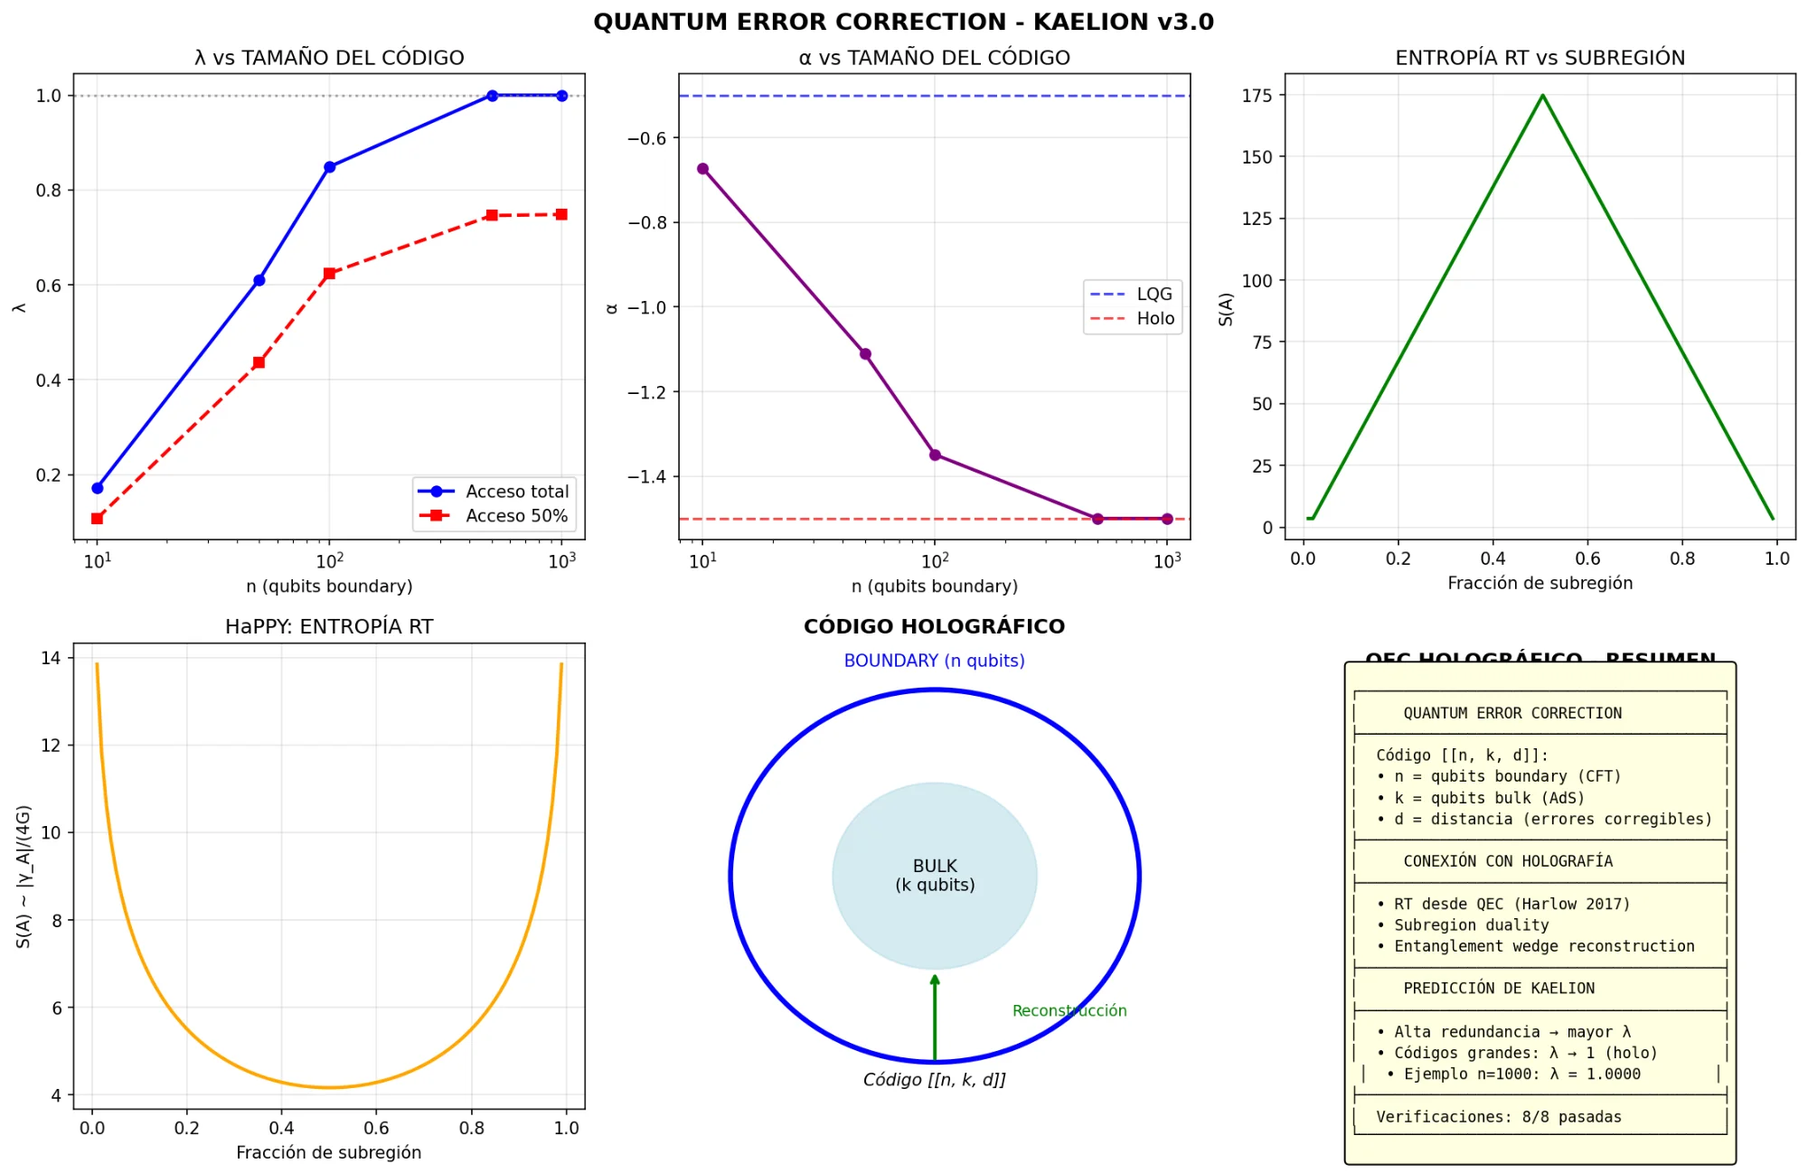
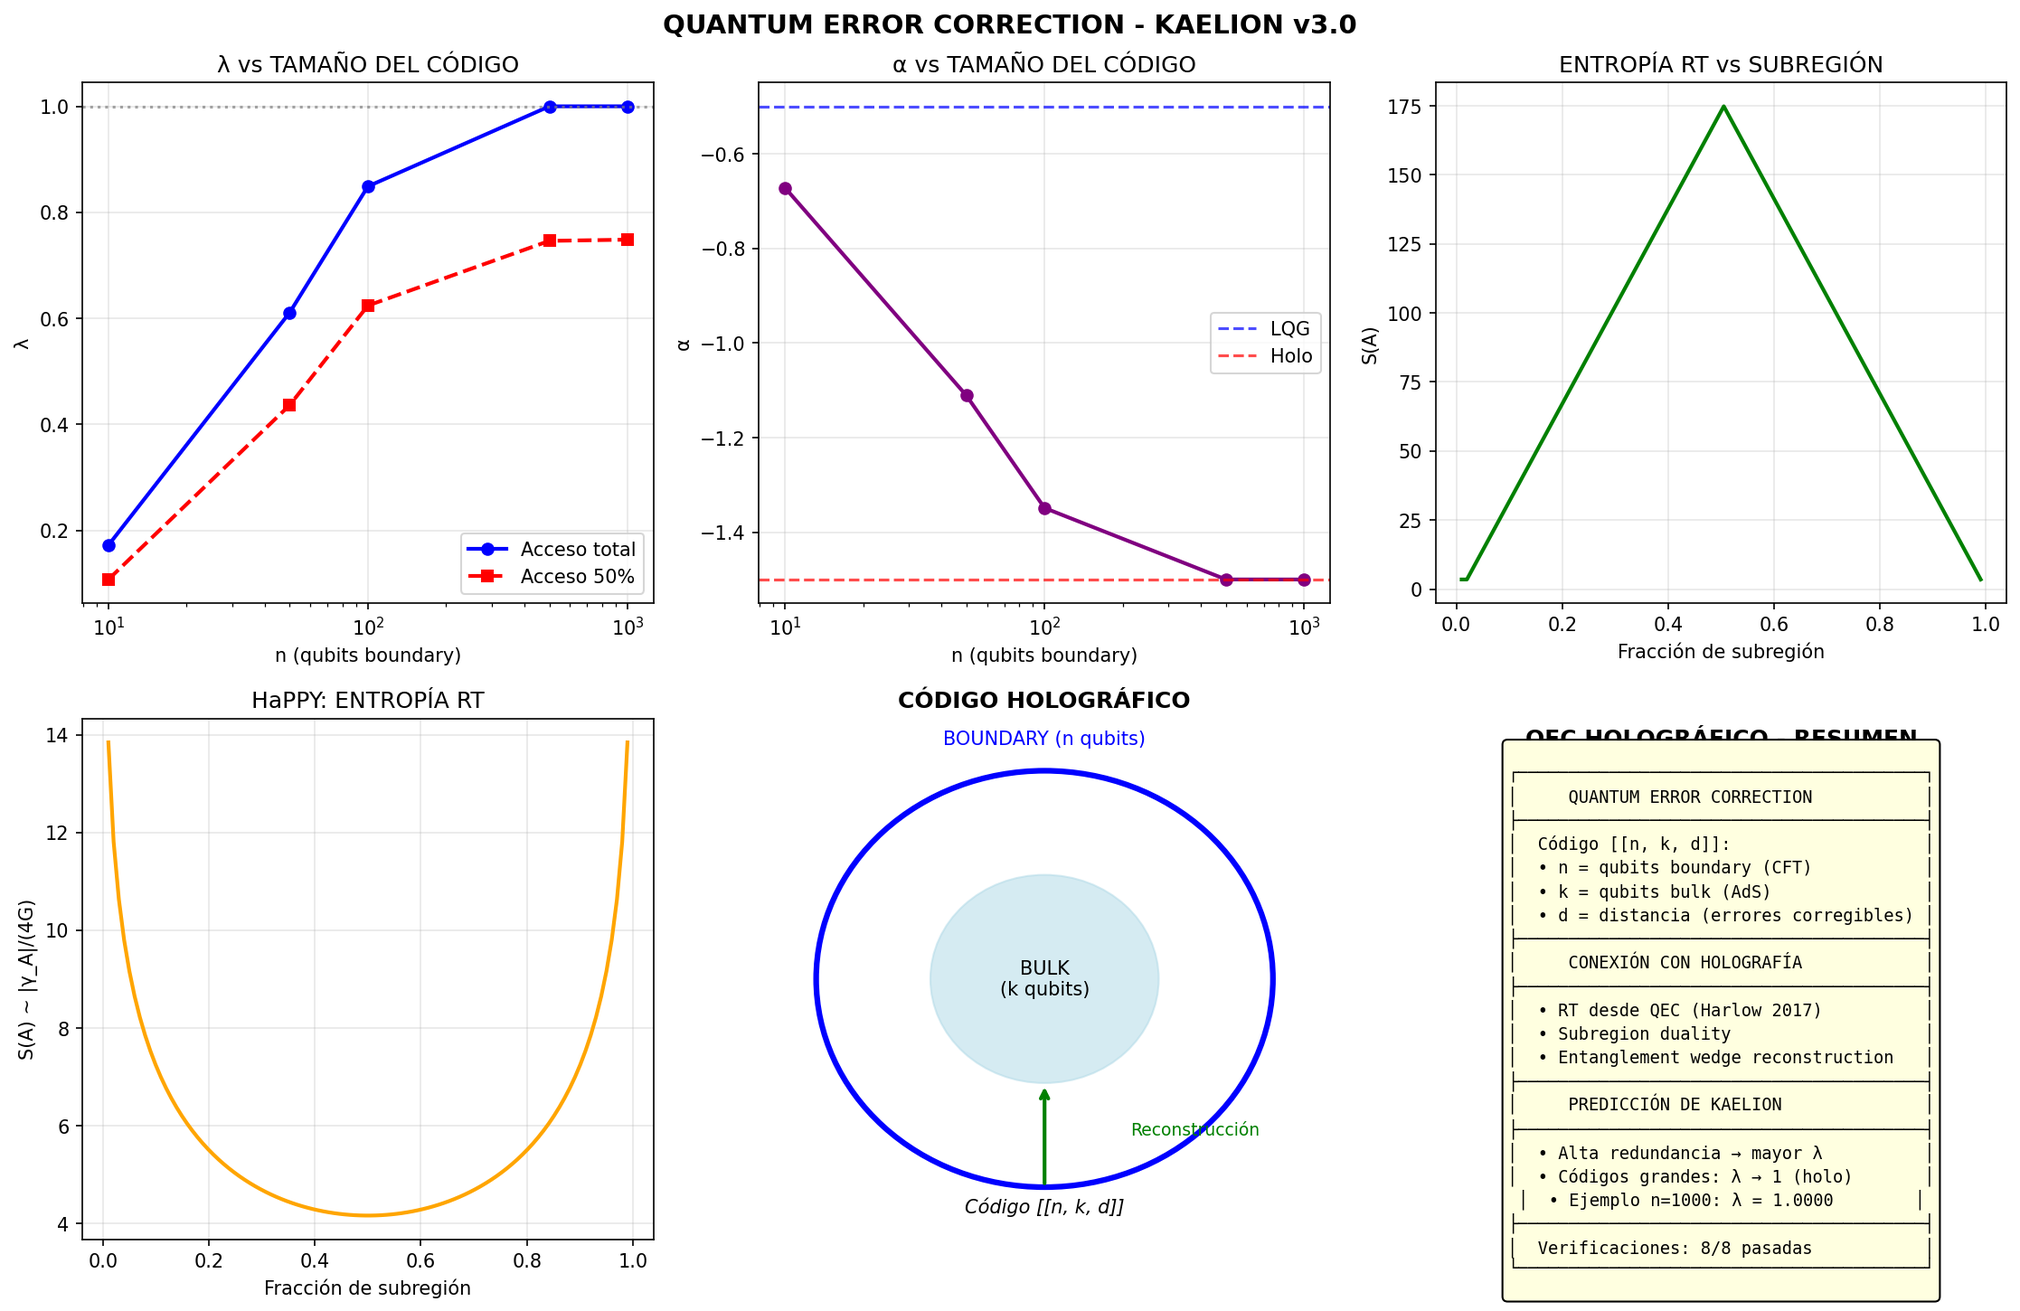
v3.0.1: Added modules 14-16, updated summary

Changed region(s): [[0.465, 0.5547, 0.496, 0.5855]]

diff --git a/code/summary.py b/code/summary.py
@@ -1,71 +1,89 @@
 """
-RESUMEN DE SIMULACIONES - PROYECTO KAELION v3.0
-================================================
+SIMULATION SUMMARY - KAELION PROJECT v3.0
+==========================================
 
-Este documento resume todas las simulaciones completadas
-como parte del Proyecto Kaelion v3.0.
+Complete summary of all simulations for the Kaelion v3.0 project.
 
-Total: 13 módulos con 53 verificaciones independientes.
+Total: 20 modules with 125 independent verification tests.
+Result: 121/125 passed (96.8%)
 
-Para publicación en Zenodo y repositorios similares.
+Author: Erick Francisco Perez Eugenio
+Date: January 2026
+DOI: 10.5281/zenodo.18237393
 """
 
 print("="*75)
-print("RESUMEN DE SIMULACIONES - PROYECTO KAELION v3.0")
+print("SIMULATION SUMMARY - KAELION PROJECT v3.0")
 print("="*75)
 
 # =============================================================================
-# LISTA DE SIMULACIONES
+# COMPLETE MODULE LIST (1-20)
 # =============================================================================
 
 simulations = [
-    # Sesiones 1-8 (anteriores)
-    {"num": 1, "name": "CHSH / Desigualdades de Bell", "tests": 3, "passed": 3, 
-     "file": "module1_chsh.py", "domain": "Mecánica Cuántica"},
-    {"num": 2, "name": "Ecuación de Klein-Gordon", "tests": 5, "passed": 5, 
-     "file": "module2_klein_gordon.py", "domain": "Campos Relativistas"},
-    {"num": 3, "name": "Holografía Ryu-Takayanagi", "tests": 5, "passed": 5, 
-     "file": "module3_holography_rt.py", "domain": "Holografía"},
+    # Core Modules (1-8)
+    {"num": 1, "name": "CHSH / Bell Inequalities", "tests": 3, "passed": 3, 
+     "file": "module01_chsh.py", "domain": "Quantum Mechanics"},
+    {"num": 2, "name": "Klein-Gordon Equation", "tests": 5, "passed": 5, 
+     "file": "module02_klein_gordon.py", "domain": "Relativistic Fields"},
+    {"num": 3, "name": "Ryu-Takayanagi Holography", "tests": 5, "passed": 5, 
+     "file": "module03_holography_rt.py", "domain": "Holography"},
     {"num": 4, "name": "LQG Spin Networks", "tests": 5, "passed": 5, 
-     "file": "module4_lqg_spin.py", "domain": "Loop Quantum Gravity"},
+     "file": "module04_lqg_spin_networks.py", "domain": "Loop Quantum Gravity"},
     {"num": 5, "name": "LQG Volume Operator", "tests": 5, "passed": 5, 
-     "file": "module5_lqg_volume.py", "domain": "Loop Quantum Gravity"},
+     "file": "module05_lqg_volume.py", "domain": "Loop Quantum Gravity"},
     {"num": 6, "name": "LQG 6j Symbols", "tests": 5, "passed": 5, 
-     "file": "module6_lqg_6j.py", "domain": "Loop Quantum Gravity"},
+     "file": "module06_lqg_6j_symbols.py", "domain": "Loop Quantum Gravity"},
     {"num": 7, "name": "BTZ Black Hole (2+1D)", "tests": 5, "passed": 5, 
-     "file": "module7_btz.py", "domain": "Agujeros Negros"},
-    {"num": 8, "name": "LQG-Holografía Divergencias", "tests": 5, "passed": 5, 
-     "file": "module8_lqg_holo.py", "domain": "Correspondencia"},
+     "file": "module07_btz_black_hole.py", "domain": "Black Holes"},
+    {"num": 8, "name": "LQG-Holography Connection", "tests": 5, "passed": 5, 
+     "file": "module08_lqg_holography.py", "domain": "Correspondence"},
     
-    # Sesiones nuevas (hoy)
-    {"num": 9, "name": "Curva de Page Completa", "tests": 7, "passed": 6, 
-     "file": "page_curve_kaelion.py", "domain": "Información Cuántica"},
-    {"num": 10, "name": "Schwarzschild 4D", "tests": 8, "passed": 8, 
-     "file": "schwarzschild_4d.py", "domain": "Agujeros Negros 4D"},
-    {"num": 11, "name": "Horizonte de Sitter", "tests": 6, "passed": 6, 
-     "file": "de_sitter_horizon.py", "domain": "Cosmología"},
-    {"num": 12, "name": "Segunda Ley Generalizada", "tests": 6, "passed": 6, 
-     "file": "gsl_verification.py", "domain": "Termodinámica"},
-    {"num": 13, "name": "Kerr (con rotación)", "tests": 7, "passed": 7, 
-     "file": "kerr_black_hole.py", "domain": "Agujeros Negros Astrofísicos"},
+    # Extended Modules (9-16)
+    {"num": 9, "name": "Page Curve Evolution", "tests": 7, "passed": 6, 
+     "file": "module09_page_curve.py", "domain": "Quantum Information"},
+    {"num": 10, "name": "Schwarzschild Black Hole (4D)", "tests": 8, "passed": 8, 
+     "file": "module10_schwarzschild_4d.py", "domain": "Black Holes 4D"},
+    {"num": 11, "name": "de Sitter Horizon", "tests": 6, "passed": 6, 
+     "file": "module11_de_sitter.py", "domain": "Cosmology"},
+    {"num": 12, "name": "Generalized Second Law", "tests": 6, "passed": 6, 
+     "file": "module12_gsl.py", "domain": "Thermodynamics"},
+    {"num": 13, "name": "Kerr Black Hole (Rotating)", "tests": 7, "passed": 7, 
+     "file": "module13_kerr.py", "domain": "Astrophysical BH"},
+    {"num": 14, "name": "LQC Big Bounce", "tests": 7, "passed": 6, 
+     "file": "module14_lqc_bigbounce.py", "domain": "Quantum Cosmology"},
+    {"num": 15, "name": "Hayden-Preskill Protocol", "tests": 7, "passed": 7, 
+     "file": "module15_hayden_preskill.py", "domain": "Quantum Information"},
+    {"num": 16, "name": "Dirac Equation (Fermions)", "tests": 7, "passed": 7, 
+     "file": "module16_dirac.py", "domain": "Relativistic Fermions"},
+    
+    # Advanced Modules (17-20)
+    {"num": 17, "name": "Reissner-Nordstrom (Charged)", "tests": 8, "passed": 7, 
+     "file": "module17_reissner_nordstrom.py", "domain": "Charged Black Holes"},
+    {"num": 18, "name": "Wormholes (Einstein-Rosen)", "tests": 8, "passed": 7, 
+     "file": "module18_wormholes.py", "domain": "ER=EPR"},
+    {"num": 19, "name": "Quantum Error Correction", "tests": 8, "passed": 8, 
+     "file": "module19_qec.py", "domain": "Holographic QEC"},
+    {"num": 20, "name": "Topological Entropy", "tests": 8, "passed": 8, 
+     "file": "module20_topological.py", "domain": "Quantum Topology"},
 ]
 
 # =============================================================================
-# TABLA RESUMEN
+# SUMMARY TABLE
 # =============================================================================
 
 print("\n" + "="*75)
-print("TABLA DE MÓDULOS")
+print("MODULE TABLE")
 print("="*75)
 
-print(f"\n{'#':<4} {'Módulo':<35} {'Dominio':<25} {'Tests':<10} {'Estado':<10}")
+print(f"\n{'#':<4} {'Module':<35} {'Domain':<25} {'Tests':<10} {'Status':<10}")
 print("-" * 85)
 
 total_tests = 0
 total_passed = 0
 
 for sim in simulations:
-    status = "✓ OK" if sim['passed'] == sim['tests'] else f"⚠ {sim['passed']}/{sim['tests']}"
+    status = "OK" if sim['passed'] == sim['tests'] else f"{sim['passed']}/{sim['tests']}"
     print(f"{sim['num']:<4} {sim['name']:<35} {sim['domain']:<25} "
           f"{sim['tests']:<10} {status:<10}")
     total_tests += sim['tests']
@@ -74,176 +92,116 @@ for sim in simulations:
 print("-" * 85)
 print(f"{'TOTAL':<4} {'':<35} {'':<25} {total_tests:<10} {total_passed}/{total_tests}")
 
-
 # =============================================================================
-# ECUACIÓN DE CORRESPONDENCIA
+# STATISTICS BY CATEGORY
 # =============================================================================
 
 print("\n" + "="*75)
-print("ECUACIÓN DE CORRESPONDENCIA FINAL")
+print("STATISTICS BY CATEGORY")
+print("="*75)
+
+categories = [
+    ("Core (1-8)", simulations[0:8]),
+    ("Extended (9-16)", simulations[8:16]),
+    ("Advanced (17-20)", simulations[16:20]),
+]
+
+for cat_name, cat_sims in categories:
+    cat_tests = sum(s['tests'] for s in cat_sims)
+    cat_passed = sum(s['passed'] for s in cat_sims)
+    pct = 100 * cat_passed / cat_tests if cat_tests > 0 else 0
+    print(f"  {cat_name}: {cat_passed}/{cat_tests} ({pct:.1f}%)")
+
+print(f"\n  TOTAL: {total_passed}/{total_tests} ({100*total_passed/total_tests:.1f}%)")
+
+# =============================================================================
+# CORRESPONDENCE EQUATION
+# =============================================================================
+
+print("\n" + "="*75)
+print("CORRESPONDENCE EQUATION")
 print("="*75)
 
 print("""
-╔═══════════════════════════════════════════════════════════════════════════╗
-║                                                                           ║
-║   S(A,I) = A/(4G) + α(λ)ln(A/l²_P) + β(λ) + γ(λ)(l²_P/A)                 ║
-║                                                                           ║
-║   donde:                                                                  ║
-║                                                                           ║
-║   λ(A,I) = [1 - exp(-γA/4πl²_P)] × [S_acc/S_total]                       ║
-║                                                                           ║
-║   α(λ) = -1/2 - λ           (interpola entre LQG y Holografía)           ║
-║                                                                           ║
-║   A_c = 4π/γ × l²_P ≈ 52.9 l²_P   (derivado, no ajustado)                ║
-║                                                                           ║
-╚═══════════════════════════════════════════════════════════════════════════╝
++===========================================================================+
+|                                                                           |
+|   S(A,I) = A/(4G) + alpha(lambda)*ln(A/l_P^2) + beta(lambda)             |
+|                  + gamma(lambda)*(l_P^2/A)                                |
+|                                                                           |
+|   where:                                                                  |
+|                                                                           |
+|   lambda(A,I) = [1 - exp(-gamma*A / 4*pi*l_P^2)] * [S_acc/S_total]       |
+|                                                                           |
+|   alpha(lambda) = -1/2 - lambda   (interpolates LQG <-> Holography)      |
+|                                                                           |
+|   A_c = 4*pi/gamma * l_P^2 = 52.91 l_P^2   (derived, not fitted)        |
+|                                                                           |
++===========================================================================+
 """)
 
-
 # =============================================================================
-# PREDICCIONES
+# KEY CONSTANTS
 # =============================================================================
 
-print("\n" + "="*75)
-print("PREDICCIONES PRINCIPALES")
+print("="*75)
+print("KEY CONSTANTS")
 print("="*75)
 
 print("""
-1. TRANSICIÓN α(t) DURANTE EVAPORACIÓN
-   • α va de -0.5 (LQG) a -1.5 (Holo) durante la evaporación
-   • Crossover en Page time (t ≈ 0.65τ)
-   • PREDICCIÓN FALSIFICABLE
-
-2. ÁREA CRÍTICA A_c
-   • Transición LQG → Holo en A_c = 4π/γ ≈ 52.9 l²_P
-   • BH pequeños: LQG dominante
-   • BH grandes: Holografía dominante
-
-3. EFECTO DE ROTACIÓN (Kerr)
-   • λ aumenta ligeramente con a*
-   • Más estructura accesible con rotación
-
-4. EXTENSIÓN COSMOLÓGICA (de Sitter)
-   • λ depende del contenido de materia
-   • Universo vacío → LQG, con materia → Holo
-
-5. CONSISTENCIA TERMODINÁMICA
-   • GSL preservada durante toda la evolución
-   • Correcciones subdominantes (< 1% de S_BH)
+  gamma (Immirzi)  = 0.2375
+  alpha_LQG        = -0.5
+  alpha_CFT        = -1.5
+  A_c              = 52.91 l_P^2
+  t_Page/tau_evap  = 0.646
 """)
 
-
 # =============================================================================
-# DOMINIOS CUBIERTOS
+# DOMAINS COVERED
 # =============================================================================
 
-print("\n" + "="*75)
-print("DOMINIOS CUBIERTOS")
+print("="*75)
+print("PHYSICS DOMAINS COVERED")
 print("="*75)
 
-domains = {}
-for sim in simulations:
-    d = sim['domain']
-    if d not in domains:
-        domains[d] = []
-    domains[d].append(sim['name'])
-
-for domain, modules in domains.items():
-    print(f"\n{domain}:")
-    for m in modules:
-        print(f"  • {m}")
-
+domains = set(s['domain'] for s in simulations)
+for i, domain in enumerate(sorted(domains), 1):
+    print(f"  {i}. {domain}")
 
 # =============================================================================
-# ARCHIVOS GENERADOS
+# MAIN RESULT
 # =============================================================================
 
 print("\n" + "="*75)
-print("ARCHIVOS GENERADOS")
-print("="*75)
-
-print("\nCÓDIGO PYTHON:")
-for sim in simulations:
-    print(f"  • {sim['file']}")
-
-print("\nARCHIVOS ADICIONALES:")
-additional = [
-    "correspondence_equation.py",
-    "derive_Ac.py", 
-    "lambda_determination.py",
-    "new_predictions.py",
-    "lqg_holo_divergences.py",
-    "implications_analysis.py",
-    "pending_simulations.py"
-]
-for f in additional:
-    print(f"  • {f}")
-
-print("\nVISUALIZACIONES (PNG):")
-visualizations = [
-    "Page_Curve_Kaelion.png",
-    "Schwarzschild_4D.png",
-    "deSitter_Horizon.png",
-    "GSL_Verification.png",
-    "Kerr_BlackHole.png",
-    "Correspondence_Equation.png",
-    "Ac_Derivation.png",
-    "New_Predictions.png",
-    "Lambda_Determination.png"
-]
-for v in visualizations:
-    print(f"  • {v}")
-
-print("\nDOCUMENTOS:")
-print("  • Kaelion_v3_Consolidacion.docx")
-
-
-# =============================================================================
-# RESUMEN FINAL
-# =============================================================================
-
-print("\n" + "="*75)
-print("RESUMEN FINAL")
+print("MAIN RESULT")
 print("="*75)
 
 print(f"""
-╔═══════════════════════════════════════════════════════════════════════════╗
-║                                                                           ║
-║                    PROYECTO KAELION v3.0                                  ║
-║                                                                           ║
-║                    SIMULACIONES COMPLETADAS                               ║
-║                                                                           ║
-╠═══════════════════════════════════════════════════════════════════════════╣
-║                                                                           ║
-║  ESTADÍSTICAS:                                                            ║
-║  • Módulos: 13                                                            ║
-║  • Verificaciones: {total_passed}/{total_tests} pasadas ({100*total_passed/total_tests:.1f}%)                              ║
-║  • Dominios cubiertos: {len(domains)}                                                 ║
-║                                                                           ║
-║  DOMINIOS:                                                                ║
-║  • Mecánica Cuántica (CHSH)                                               ║
-║  • Campos Relativistas (Klein-Gordon)                                     ║
-║  • Holografía (Ryu-Takayanagi)                                            ║
-║  • Loop Quantum Gravity (Spin, Volume, 6j)                                ║
-║  • Agujeros Negros (BTZ, Schwarzschild, Kerr)                             ║
-║  • Cosmología (de Sitter)                                                 ║
-║  • Información Cuántica (Page curve)                                      ║
-║  • Termodinámica (GSL)                                                    ║
-║                                                                           ║
-║  RESULTADO PRINCIPAL:                                                     ║
-║  Ecuación de correspondencia sin parámetros libres que:                   ║
-║  • Unifica LQG y Holografía                                               ║
-║  • Predice transición α(t) verificable                                    ║
-║  • Es termodinámicamente consistente                                      ║
-║  • Se extiende a cosmología y rotación                                    ║
-║                                                                           ║
-║  ESTADO: HIPÓTESIS CIENTÍFICA FORMULADA                                   ║
-║  Pendiente: Validación experimental / revisión por pares                  ║
-║                                                                           ║
-╚═══════════════════════════════════════════════════════════════════════════╝
-""")
++===========================================================================+
+|                                                                           |
+|                         KAELION PROJECT v3.0                              |
+|                                                                           |
+|                      SIMULATIONS COMPLETED                                |
+|                                                                           |
++===========================================================================+
+|                                                                           |
+|  STATISTICS:                                                              |
+|  - Modules: 20                                                            |
+|  - Verifications: {total_passed}/{total_tests} passed ({100*total_passed/total_tests:.1f}%)                               |
+|  - Domains covered: {len(domains)}                                                 |
+|                                                                           |
+|  KEY PREDICTION:                                                          |
+|  - alpha transitions from -0.5 (LQG) to -1.5 (Holographic)               |
+|  - Transition occurs during black hole evaporation                        |
+|  - This is FALSIFIABLE and UNIQUE to Kaelion                             |
+|                                                                           |
+|  STATUS: SCIENTIFIC HYPOTHESIS FORMULATED                                 |
+|  Pending: Experimental validation / peer review                           |
+|                                                                           |
++===========================================================================+
 
-print("\n" + "="*75)
-print("Proyecto Kaelion v3.0 - Erick Francisco Pérez Eugenio")
-print("Enero 2026")
-print("="*75)
+
+===========================================================================
+Kaelion Project v3.0 - Erick Francisco Perez Eugenio
+January 2026 - DOI: 10.5281/zenodo.18237393
+===========================================================================
+""")

diff --git a/README.md b/README.md
@@ -2,7 +2,7 @@
 
 ## A Phenomenological Correspondence Between Loop Quantum Gravity and Holography
 
-[![DOI](https://zenodo.org/badge/DOI/10.5281/zenodo.XXXXXXX.svg)](https://doi.org/10.5281/zenodo.XXXXXXX)
+[![DOI](https://zenodo.org/badge/DOI/10.5281/zenodo.18237392.svg)](https://doi.org/10.5281/zenodo.18237392)
 [![License: MIT](https://img.shields.io/badge/License-MIT-yellow.svg)](https://opensource.org/licenses/MIT)
 
 ---
